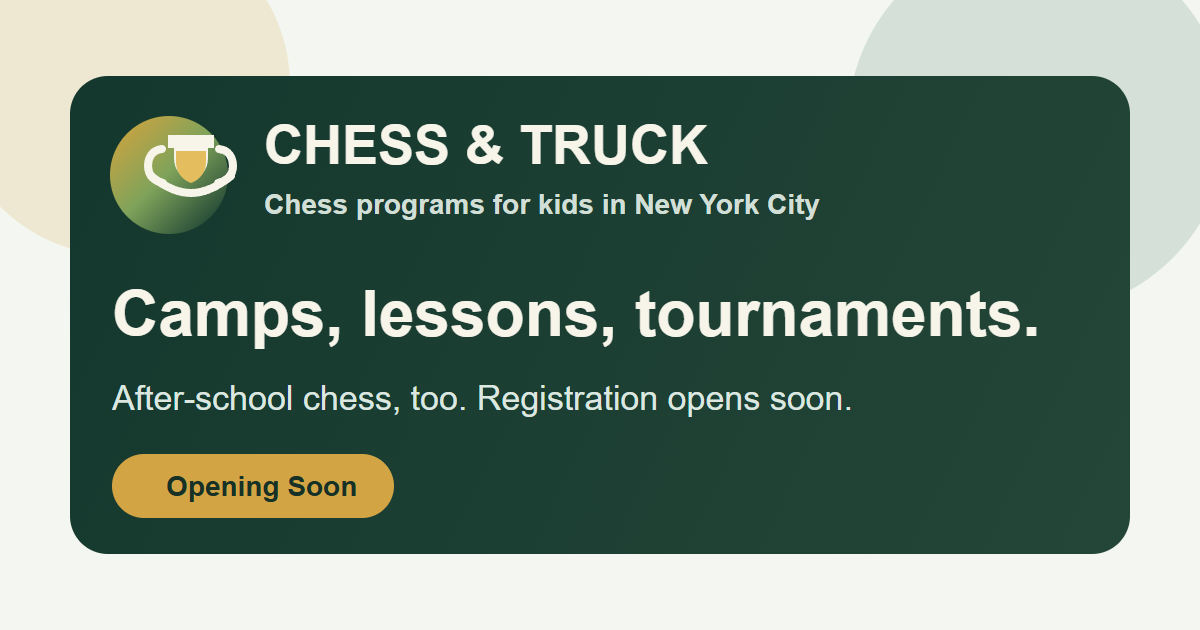
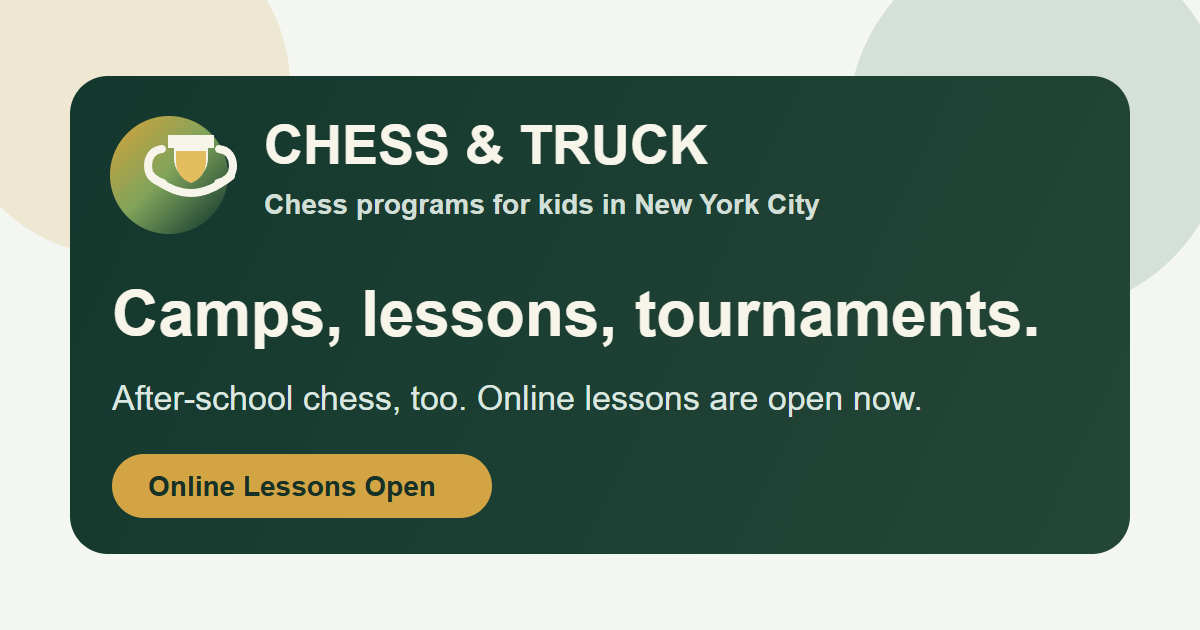
Say everywhere that online private lessons are open
- Homepage: the lessons card badge reads "Online Lessons Open", and the
  getting-started step and FAQ (beginners, coach, registration, cost, what to
  bring, location) now describe online lessons as open, with the approved
  prices. Other programs are still "opening soon".
- About and FAQ pages, the inner-page side panel, meta descriptions, the
  JSON-LD description, and the social preview image say the same.

Changed region(s): [[0.1233, 0.6937, 0.4317, 0.8444], [0.4008, 0.6032, 0.6783, 0.6635], [0.7092, 0.6032, 0.7708, 0.6635]]

diff --git a/src/siteData.js b/src/siteData.js
@@ -111,7 +111,7 @@ export const academyHomePage = {
         // The mockup's "Spots can fill up quickly!" is left out.
         icon: "document",
         title: "Sign up when it opens",
-        text: "Dates, prices, and registration links will be posted on each program page when registration opens.",
+        text: "Online private lessons are open now. For our other programs, dates, prices, and registration links will be posted on each program page when registration opens.",
       },
     ],
   },
@@ -123,32 +123,32 @@ export const academyHomePage = {
       {
         question: "Is this OK for beginners?",
         answer:
-          "Yes. Private lessons will be open to beginners as well as experienced players. Tell us your child's age and level, and we'll help you find the right program.",
+          "Yes. Online private lessons are open to complete beginners as well as experienced players. Tell us your child's age and level, and we'll help you find the right program.",
       },
       {
         question: "Who is the coach?",
         answer:
-          "Andrea, who has 24 years of experience teaching chess. We'll share who coaches each program when its registration opens.",
+          "Online private lessons are taught by Coach Andrea, a FIDE Master with 24 years of experience teaching chess, and Coach Amir, also a FIDE Master. You can read about both on our Our Team page. We'll share who coaches our other programs when their registration opens.",
       },
       {
         question: "When does registration open?",
         answer:
-          "We haven't set dates yet. Until a program page says registration is open, we aren't taking sign-ups or payments for it.",
+          "Online private lessons are open now: you can buy a lesson package on the Online Lessons page. Camps, tournaments, after-school chess, and in-person and group lessons aren't open yet. Until a program page says registration is open, we aren't taking sign-ups or payments for it.",
       },
       {
         question: "How much does it cost?",
         answer:
-          "Prices haven't been set for any program yet. They'll be announced on each program page. When registration opens, you'll pay online by card through Stripe, a secure payment service.",
+          "Online private lessons are $150 for one 60-minute lesson, $675 for 5 lessons, or $1,200 for 10 lessons, paid online by card through Stripe, a secure payment service. Prices for our other programs will be announced on each program page.",
       },
       {
         question: "What should my child bring?",
         answer:
-          "It depends on the program. Each program page will list what to bring when registration opens.",
+          "It depends on the program. For online lessons, our team will tell you what you need when they contact you by email to arrange the lessons. Other program pages will list what to bring when registration opens.",
       },
       {
         question: "Where are the programs located?",
         answer:
-          "In New York City. We haven't announced specific locations yet. Each program page will list its location before registration opens.",
+          "Online private lessons take place online, from home. Our other programs will be in New York City. We haven't announced specific locations yet; each program page will list its location before registration opens.",
       },
     ],
   },
@@ -540,6 +540,9 @@ export const programs = [
     iconKey: "lessons",
     name: "Private Chess Lessons",
     path: "/lessons/online",
+    // Online private lessons are on sale, so this card shows their status.
+    statusProgramId: "onlineLessons",
+    openLabel: "Online Lessons Open",
     summary:
       "Individual or online lessons for beginners and experienced players.",
   },
@@ -716,7 +719,7 @@ export const routeMeta = {
   "/": {
     title: "Chess & Truck | Chess Programs for Kids in NYC",
     description:
-      "Chess camps, tournaments, private lessons, and after-school chess for kids in New York City. Registration opens soon.",
+      "Chess camps, tournaments, private lessons, and after-school chess for kids in New York City. Online private lessons are open now.",
   },
   "/about": {
     title: "About | Chess & Truck",
@@ -1459,7 +1462,7 @@ export const campDetailPages = {
 };
 
 // About page: owner-confirmed facts only. Chess & Truck has not run its own
-// camps or tournaments yet; all four programs are upcoming.
+// camps or tournaments yet. Online private lessons are on sale; the rest are upcoming.
 export const aboutPage = {
   hero: {
     eyebrow: "About us",
@@ -1469,15 +1472,15 @@ export const aboutPage = {
   },
   facts: [
     { label: "Based in", value: "New York City" },
-    { label: "Programs", value: "Four, all opening soon" },
+    { label: "Programs", value: "Four, online lessons open now" },
     { label: "Coach", value: "Andrea, 24 years teaching chess" },
-    { label: "Registration", value: "Not open yet" },
+    { label: "Registration", value: "Online lessons open" },
   ],
   whoSection: {
     eyebrow: "Who we are",
     title: "A new chess program for NYC kids",
     intro:
-      "We're getting ready to launch camps, tournaments, lessons, and after-school chess. These will be our first programs, and we'll share the details of each one before registration opens.",
+      "We're launching camps, tournaments, lessons, and after-school chess. Online private lessons are open now, and we'll share the details of each other program before its registration opens.",
   },
   whoPoints: [
     {
@@ -1486,7 +1489,7 @@ export const aboutPage = {
     },
     {
       title: "Details before sign-up",
-      text: "Each program page will list the dates, location, and price before we take any registrations or payments.",
+      text: "Each program page lists the price and details before we take any registrations or payments.",
     },
     {
       title: "Easy to reach",
@@ -1495,8 +1498,8 @@ export const aboutPage = {
   ],
   programsSection: {
     eyebrow: "Our programs",
-    title: "Four upcoming chess programs",
-    intro: "None are open for registration yet. Each page shows what's confirmed and what's still being planned.",
+    title: "Our four chess programs",
+    intro: "Online private lessons are open now. The other programs aren't open for registration yet; each page shows what's confirmed and what's still being planned.",
   },
   coach: {
     eyebrow: "Your coach",
@@ -1641,17 +1644,17 @@ export const faqPage = {
         {
           question: "Is registration open?",
           answer:
-            "Not yet. All four programs are still being planned, and we aren't taking sign-ups or payments for any of them. Each program page will say when its registration opens.",
+            "For online private lessons, yes: you can buy a lesson package on the Online Lessons page. Camps, tournaments, after-school chess, and in-person and group lessons aren't open yet, and we aren't taking sign-ups or payments for them. Each program page will say when its registration opens.",
         },
         {
           question: "When will programs begin?",
           answer:
-            "We haven't set start dates for any program yet. Dates will be posted on each program page before registration opens.",
+            "Online private lessons start after you buy a package: our team contacts you by email to arrange the schedule. We haven't set start dates for our other programs yet. Dates will be posted on each program page before registration opens.",
         },
         {
           question: "How much do programs cost?",
           answer:
-            "Prices haven't been set for any program yet. Each price will be posted on its program page. When registration opens, you'll pay online by card through Stripe, a secure payment service.",
+            "Online private lessons are $150 for one 60-minute lesson, $675 for 5 lessons, or $1,200 for 10 lessons, paid online by card through Stripe, a secure payment service. Prices for our other programs will be announced on each program page.",
         },
       ],
     },
@@ -1667,7 +1670,7 @@ export const faqPage = {
         {
           question: "Are beginners welcome?",
           answer:
-            "Private lessons will be open to beginners and experienced players. For our other programs, we'll say who each one is for when registration opens. Tell us your child's level, and we'll suggest where to start.",
+            "Yes. Online private lessons are open to everyone from complete beginners to advanced tournament players. For our other programs, we'll say who each one is for when registration opens. Tell us your child's level, and we'll suggest where to start.",
         },
       ],
     },
@@ -1683,7 +1686,7 @@ export const faqPage = {
         {
           question: "Are private lessons online or in person?",
           answer:
-            "Both. Private lessons will be offered in person and online, with more than one lesson length. In-person locations, lesson lengths, and times will be announced.",
+            "Online private lessons are open now: one-on-one, 60 minutes each. In-person and group lessons are coming; their locations, schedules, and prices will be announced.",
         },
       ],
     },
@@ -1745,7 +1748,7 @@ export const faqPage = {
         {
           question: "Who is the coach?",
           answer:
-            "Andrea, who has 24 years of experience teaching chess. We'll share who coaches each program when its registration opens.",
+            "Online private lessons are taught by Coach Andrea, a FIDE Master with 24 years of experience teaching chess, and Coach Amir, also a FIDE Master. You can read about both on our Our Team page. We'll share who coaches our other programs when their registration opens.",
         },
       ],
     },

diff --git a/index.html b/index.html
@@ -8,7 +8,7 @@
     <meta name="theme-color" content="#163d31" />
     <meta
       name="description"
-      content="Chess camps, tournaments, private lessons, and after-school chess for kids in New York City. Registration opens soon."
+      content="Chess camps, tournaments, private lessons, and after-school chess for kids in New York City. Online private lessons are open now."
     />
     <meta name="robots" content="index,follow" />
     <link rel="canonical" href="https://www.chessandtruck.com/" />
@@ -19,7 +19,7 @@
     <meta property="og:title" content="Chess &amp; Truck | Chess Programs for Kids in NYC" />
     <meta
       property="og:description"
-      content="Chess camps, tournaments, private lessons, and after-school chess for kids in New York City. Registration opens soon."
+      content="Chess camps, tournaments, private lessons, and after-school chess for kids in New York City. Online private lessons are open now."
     />
     <meta property="og:image" content="https://www.chessandtruck.com/social-preview.png" />
     <meta property="og:image:width" content="1200" />
@@ -29,7 +29,7 @@
     <meta name="twitter:title" content="Chess &amp; Truck | Chess Programs for Kids in NYC" />
     <meta
       name="twitter:description"
-      content="Chess camps, tournaments, private lessons, and after-school chess for kids in New York City. Registration opens soon."
+      content="Chess camps, tournaments, private lessons, and after-school chess for kids in New York City. Online private lessons are open now."
     />
     <meta name="twitter:image" content="https://www.chessandtruck.com/social-preview.png" />
     <script type="application/ld+json">
@@ -38,7 +38,7 @@
         "@type": "Organization",
         "name": "Chess & Truck",
         "url": "https://www.chessandtruck.com/",
-        "description": "Upcoming chess camps, tournaments, private lessons, and after-school chess for kids in New York City.",
+        "description": "Online private chess lessons, plus upcoming chess camps, tournaments, and after-school chess for kids in New York City.",
         "areaServed": { "@type": "City", "name": "New York City" },
         "email": "info@chessandtruck.com",
         "telephone": "+1-646-251-7087"

diff --git a/src/ChessTruckApp.jsx b/src/ChessTruckApp.jsx
@@ -1106,7 +1106,7 @@ function PageHero({ eyebrow, title, intro, actions, aside, asideLink, heroFacts,
     <>
       <span className="mini-tag mini-tag-dark">Questions?</span>
       <h2>Talk to us</h2>
-      <p>All four programs are opening soon. Call, text, or email with any question.</p>
+      <p>Online private lessons are open now; our other programs are opening soon. Call, text, or email with any question.</p>
       <div className="fact-list">
         <div>
           <span>{phoneContact.label}</span>
@@ -1270,12 +1270,12 @@ function DojoFeature({ currentPath, navigate }) {
   );
 }
 
-function ProgramStatusBadge({ programId }) {
+function ProgramStatusBadge({ programId, openLabel }) {
   const status = getProgramStatus(programId);
 
   return (
     <span className={`slot-status-badge program-status-badge is-${status}`}>
-      {PROGRAM_STATUS_LABELS[status]}
+      {status === PROGRAM_STATUS.OPEN && openLabel ? openLabel : PROGRAM_STATUS_LABELS[status]}
     </span>
   );
 }
@@ -1514,7 +1514,7 @@ function ProgramCard({ program, summary = program.summary, currentPath, navigate
       <span className="ac-program-icon">
         <ProgramIcon iconKey={program.iconKey} />
       </span>
-      <ProgramStatusBadge programId={program.id} />
+      <ProgramStatusBadge programId={program.statusProgramId || program.id} openLabel={program.openLabel} />
       <h3>{program.name}</h3>
       <p>{summary}</p>
       <span className="ac-program-link">
